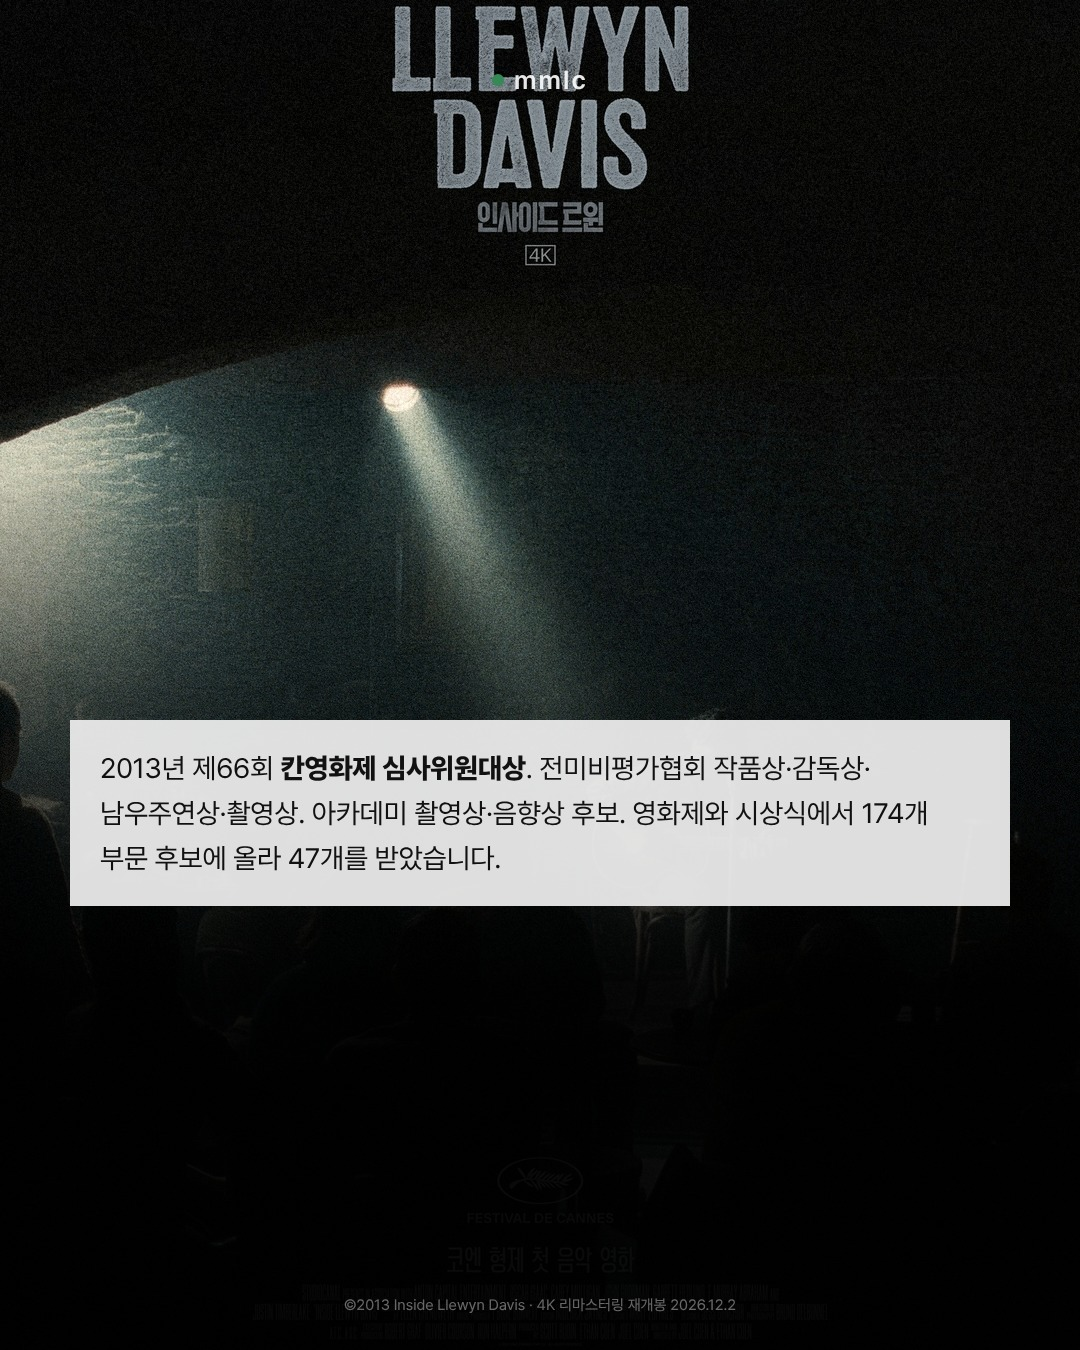
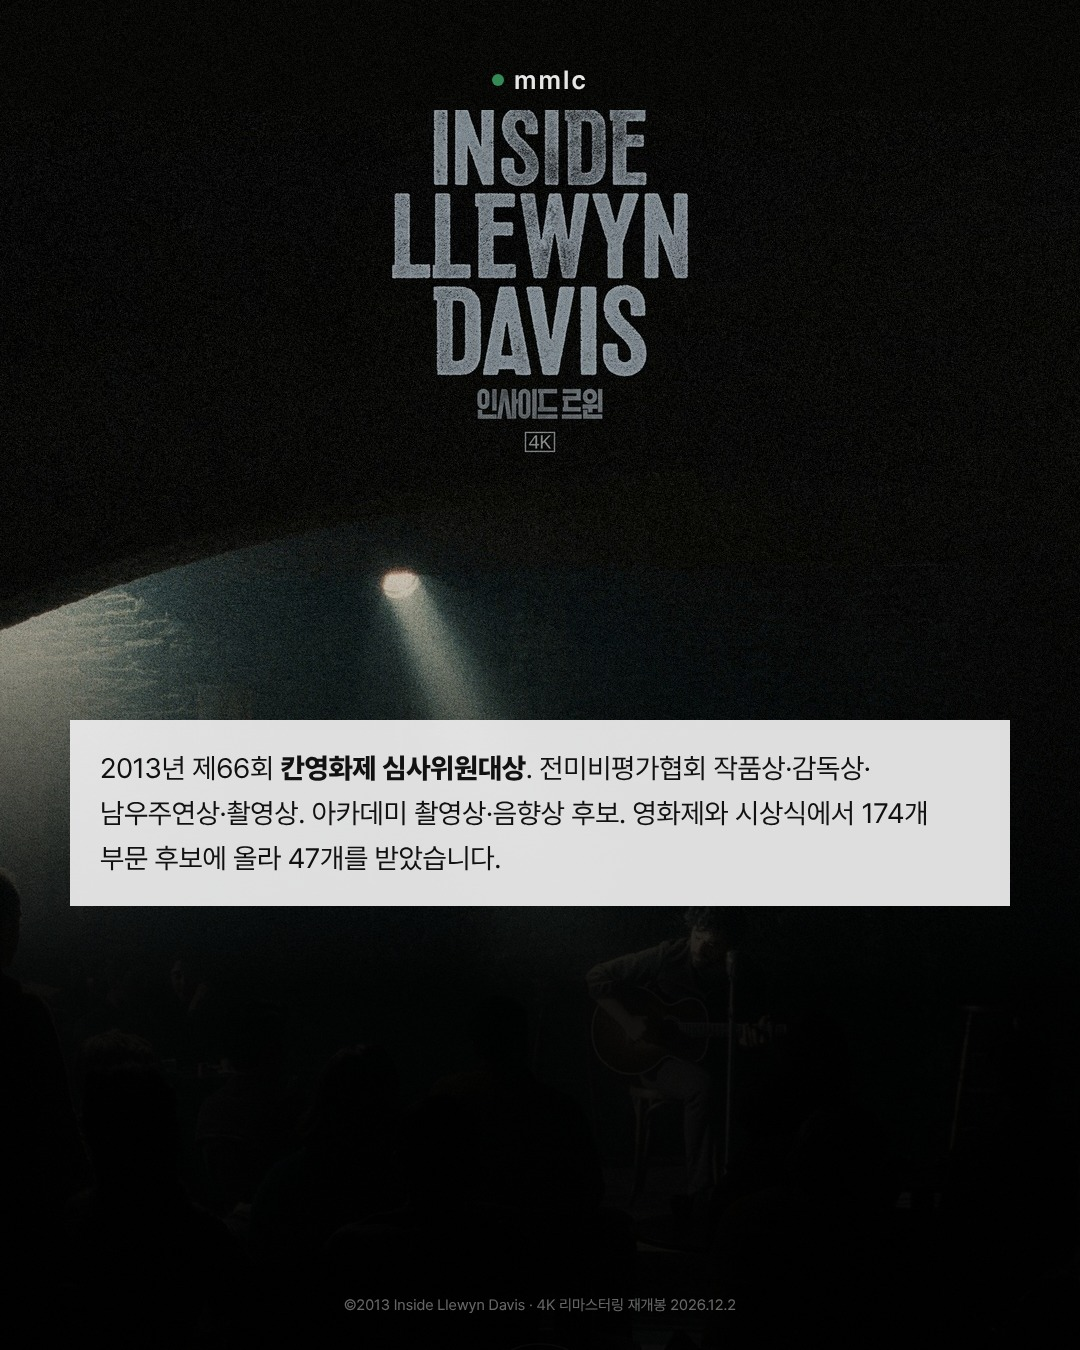
인사이드 르윈: 표지 박스 로고·크롭, 6장 로고 겹침, 4장 맞춤법 수정
- 1장: 포스터 손글씨 잘림 제거, 표지용 박스 로고(Oswald) 적용
- 6장: 포스터를 내려 mmlc 로고와 제목 겹침 해소
- 4장: 아니였다고 → 아니었다고
- 8장 응모 기간 확정, 인계 노트 갱신

Claude-Session: https://claude.ai/code/session_01VEGji1Wx9t8xn4NvfBmGPJ

Changed region(s): [[0.0, 0.0, 0.6722, 0.6844], [0.5806, 0.6533, 0.6111, 0.6844]]

diff --git a/templates/story-article/llewyn/render.py b/templates/story-article/llewyn/render.py
@@ -6,6 +6,7 @@ from playwright.sync_api import sync_playwright
 from PIL import Image, ImageFilter, ImageEnhance
 import numpy as np
 W,H=1080,1350; G=mc.GREEN
+OSW='data:font/woff2;base64,'+base64.b64encode(open(os.path.join(HERE,'../../../tools/fonts/Oswald-Bold.woff2'),'rb').read()).decode()
 def fit(im,w,h,fx=0.5,fy=0.5):
     s=max(w/im.width,h/im.height); im=im.resize((int(im.width*s)+1,int(im.height*s)+1),Image.LANCZOS)
     x=int((im.width-w)*fx); y=int((im.height-h)*fy); return im.crop((x,y,x+w,y+h))
@@ -35,15 +36,19 @@ CSS=f"""{mc.FONTS}*{{margin:0;padding:0;box-sizing:border-box}}body{{width:1080p
 .h1{{position:absolute;z-index:6;left:72px;right:60px;bottom:120px;font-size:84px;font-weight:800;line-height:1.2;letter-spacing:-0.045em;word-break:keep-all}}
 .h1 em{{font-style:normal;color:{G}}}
 .pic{{position:absolute;background-size:cover;background-position:center}}
+@font-face{{font-family:'Oswald';src:url({OSW}) format('woff2');font-weight:700}}
+.blogo{{position:absolute;z-index:9;top:56px;left:50%;transform:translateX(-50%);background:{G};padding:4px 16px 8px;line-height:1}}
+.blogo span{{display:inline-block;font-family:'Oswald';font-weight:700;font-size:46px;color:#fff;letter-spacing:.01em;transform:scaleX(.82);transform-origin:center}}
 """
 TOP='<div class="top"><span class="rec"></span><span class="logo">mmlc</span></div>'
+BLOGO='<div class="blogo"><span>mmlc</span></div>'
 CR='<div class="cr">©2013 Inside Llewyn Davis · 4K 리마스터링 재개봉 2026.12.2</div>'
-def wrap(body): return f'<html><head><meta charset="utf-8"><style>{CSS}</style></head><body><div class="card">{body}{TOP}{CR}</div></body></html>'
+def wrap(body,cover=False): return f'<html><head><meta charset="utf-8"><style>{CSS}</style></head><body><div class="card">{body}{BLOGO if cover else TOP}{CR}</div></body></html>'
 P=[]
 # 1 cover
-_pm=Image.open('post_main.jpg').convert('RGB'); _pm=_pm.crop((int(_pm.width*0.20),int(_pm.height*0.285),int(_pm.width*0.81),int(_pm.height*0.74)))
+_pm=Image.open('post_main.jpg').convert('RGB'); _pm=_pm.crop((int(_pm.width*0.305),int(_pm.height*0.325),int(_pm.width*0.72),int(_pm.height*0.685)))
 cov=tone(fit(_pm,W,H,0.5,0.5))
-P.append(wrap(f'<div class="bg" style="background-image:url({b(cov)})"></div><div style="position:absolute;left:0;right:0;top:0;height:260px;background:linear-gradient(rgba(0,0,0,.75),rgba(0,0,0,0))"></div><div class="sh" style="height:800px"></div><div class="h1">코엔 형제가 <em>실패</em>에 대해<br>만든 가장 아름다운 영화</div>'))
+P.append(wrap(f'<div class="bg" style="background-image:url({b(cov)})"></div><div style="position:absolute;left:0;right:0;top:0;height:260px;background:linear-gradient(rgba(0,0,0,.75),rgba(0,0,0,0))"></div><div class="sh" style="height:800px"></div><div class="h1">코엔 형제가 <em>실패</em>에 대해<br>만든 가장 아름다운 영화</div>',cover=True))
 # 2 origin — cat cutout
 d,cw,ch=png('cut_cat.png',820)
 P.append(wrap(f'''<div class="bg" style="background-image:url({bgdim('st6.jpg',0.5,0.5,0.22,6)})"></div>
@@ -60,7 +65,7 @@ P.append(wrap(f'''<div class="bg" style="background:#000"></div>
 duet=tone(fit(Image.open('st3.jpg').convert('RGB'),940,400,0.5,0.45)); stu=tone(fit(Image.open('ex4.jpg').convert('RGB'),940,400,0.5,0.5))
 P.append(wrap(f'''<div class="pic" style="left:70px;top:150px;width:940px;height:400px;background-image:url({b(duet)})"></div>
 <div class="pic" style="left:70px;top:560px;width:940px;height:300px;background-image:url({b(stu)})"></div>
-<div class="box" style="top:960px">영화 속 노래는 전부 <b>현장에서 라이브로</b> 불렀습니다.<br>오스카 아이작이 어린 시절부터 기타를 쳐서 어려운 내용은 아니였다고.</div>
+<div class="box" style="top:960px">영화 속 노래는 전부 <b>현장에서 라이브로</b> 불렀습니다.<br>오스카 아이작이 어린 시절부터 기타를 쳐서 어려운 내용은 아니었다고.</div>
 '''))
 # 5 cat Ulysses — cat cutout again, bigger, centered-right
 d2,cw2,ch2=png('cut_cat.png',900)
@@ -69,7 +74,9 @@ P.append(wrap(f'''<div class="bg" style="background-image:url({bgdim('st2.jpg',0
 <div class="box" style="top:170px;left:420px;right:70px">르윈이 하루 종일 안고 다니는 고양이 이름은 <b>율리시스</b>. 호메로스의 『오디세이아』에서 10년을 떠돌다 집으로 돌아온 그 이름이죠.</div>
 '''))
 # 6 awards — launch poster spotlight
-P.append(wrap(f'''<div class="bg" style="background-image:url({b(tone(fit(Image.open('post_launch1.jpg').convert('RGB'),W,H,0.5,0.4)))})"></div><div class="sh" style="height:900px"></div>
+_pl=Image.open('post_launch1.jpg').convert('RGB'); _pl=tone(_pl.resize((W,int(_pl.height*W/_pl.width)),Image.LANCZOS))
+_top=tuple(int(v) for v in np.median(np.asarray(_pl.crop((0,0,300,30))).reshape(-1,3),0)); _band=grain(Image.new('RGB',(W,140),_top),5)
+P.append(wrap(f'''<div class="bg" style="background:#000"></div><div class="pic" style="left:0;top:0;width:{W}px;height:140px;background-image:url({b(_band)})"></div><div class="pic" style="left:0;top:110px;width:{W}px;height:{_pl.height}px;background-image:url({b(_pl)})"></div><div class="sh" style="height:900px"></div>
 <div class="box" style="top:720px">2013년 제66회 <b>칸영화제 심사위원대상</b>. 전미비평가협회 작품상·감독상·남우주연상·촬영상. 아카데미 촬영상·음향상 후보. 영화제와 시상식에서 174개 부문 후보에 올라 47개를 받았습니다.</div>
 '''))
 # 7 why now — sofa cutout

diff --git a/templates/story-article/llewyn/HANDOFF.md b/templates/story-article/llewyn/HANDOFF.md
@@ -23,8 +23,13 @@
 - 말풍선은 전부 삭제됨. 하단 © 줄: "©2013 Inside Llewyn Davis · 4K 리마스터링 재개봉 2026.12.2" (임시)
 
 ## 남은 일 (Kyo 확인 필요)
-- [ ] 4장 "어려운 내용은 아니였다고" → 표준 표기 "아니었다고"로 고칠지 (Kyo 답 없음)
-- [ ] 8장 응모 기간 11/17~11/23 확정 여부
-- [ ] 배급사 © 크레딧 문구 (현재 임시)
+- [x] 4장 "아니였다고" → "아니었다고" 수정 (11/10 승인)
+- [x] 8장 응모 기간 11/17(화)~11/23(월) 확정 (11/10)
+- [ ] 배급사 © 크레딧 문구 — 배급사 답 올 때까지 임시 문구 유지 (11/10 결정)
 - [ ] 카드 최종 승인
-- [ ] 피드 글 작성 (아직 안 씀) — 계정 규칙: 온점·쉼표마다 줄바꿈, 팔로워 전용·비공개 계정 제외 문구 포함, 이모지 적당히
+- [ ] 피드 글 — 초안 작성됨(11/10), Kyo 확인 대기 — 계정 규칙: 온점·쉼표마다 줄바꿈, 팔로워 전용·비공개 계정 제외 문구 포함, 이모지 적당히
+
+## 11/10 수정 (Kyo 승인)
+- 1장: 포스터 손글씨가 잘려 보이던 것 제거(안쪽 사진만 크롭), 로고를 표지용 박스 로고(초록 박스 + 흰 mmlc, Oswald Bold 가로 82%)로 교체 — 폰트 tools/fonts/Oswald-Bold.woff2
+- 6장: 포스터를 110px 내려 mmlc 로고와 제목 겹침 해소(위쪽은 포스터 배경색 띠로 채움)
+- 4장 맞춤법, 8장 기간 확정
